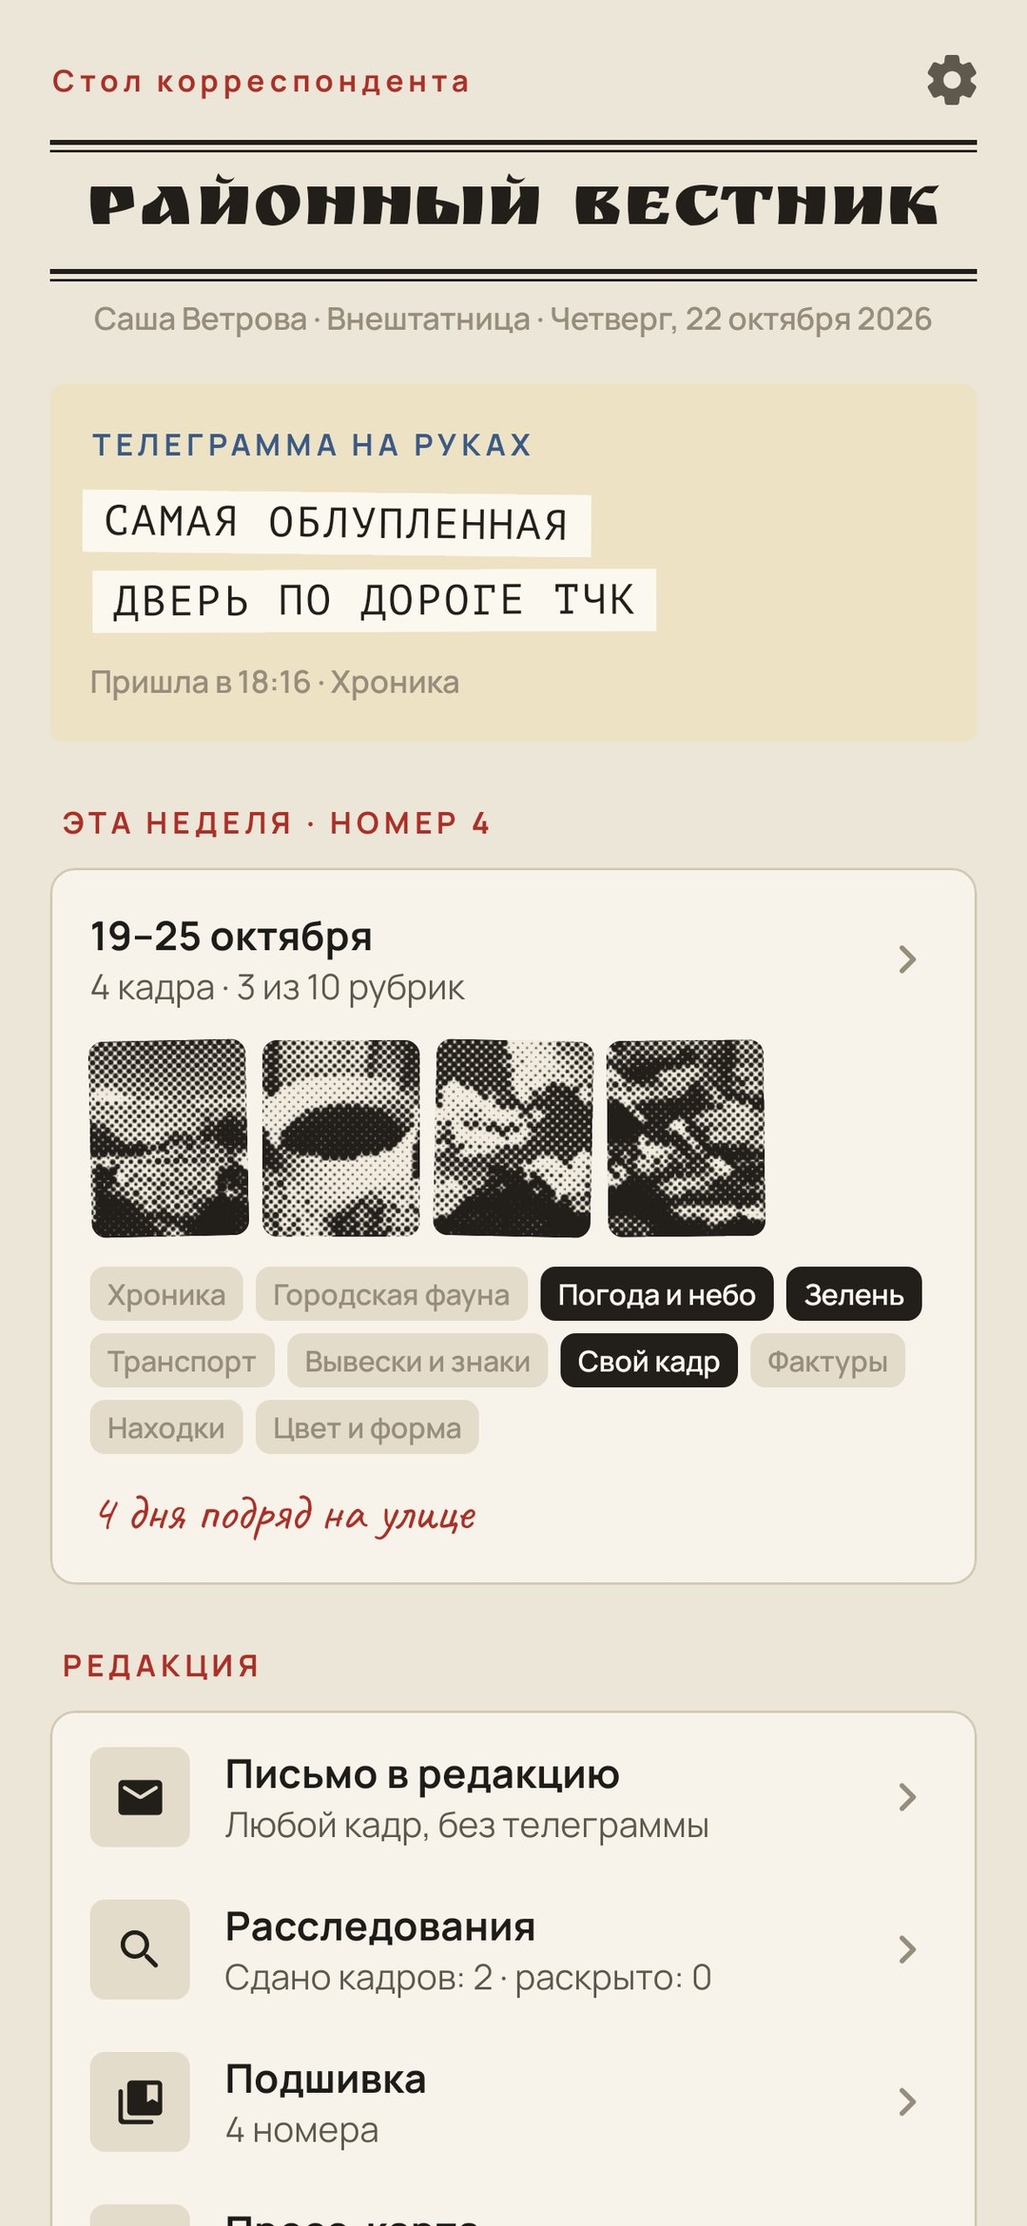
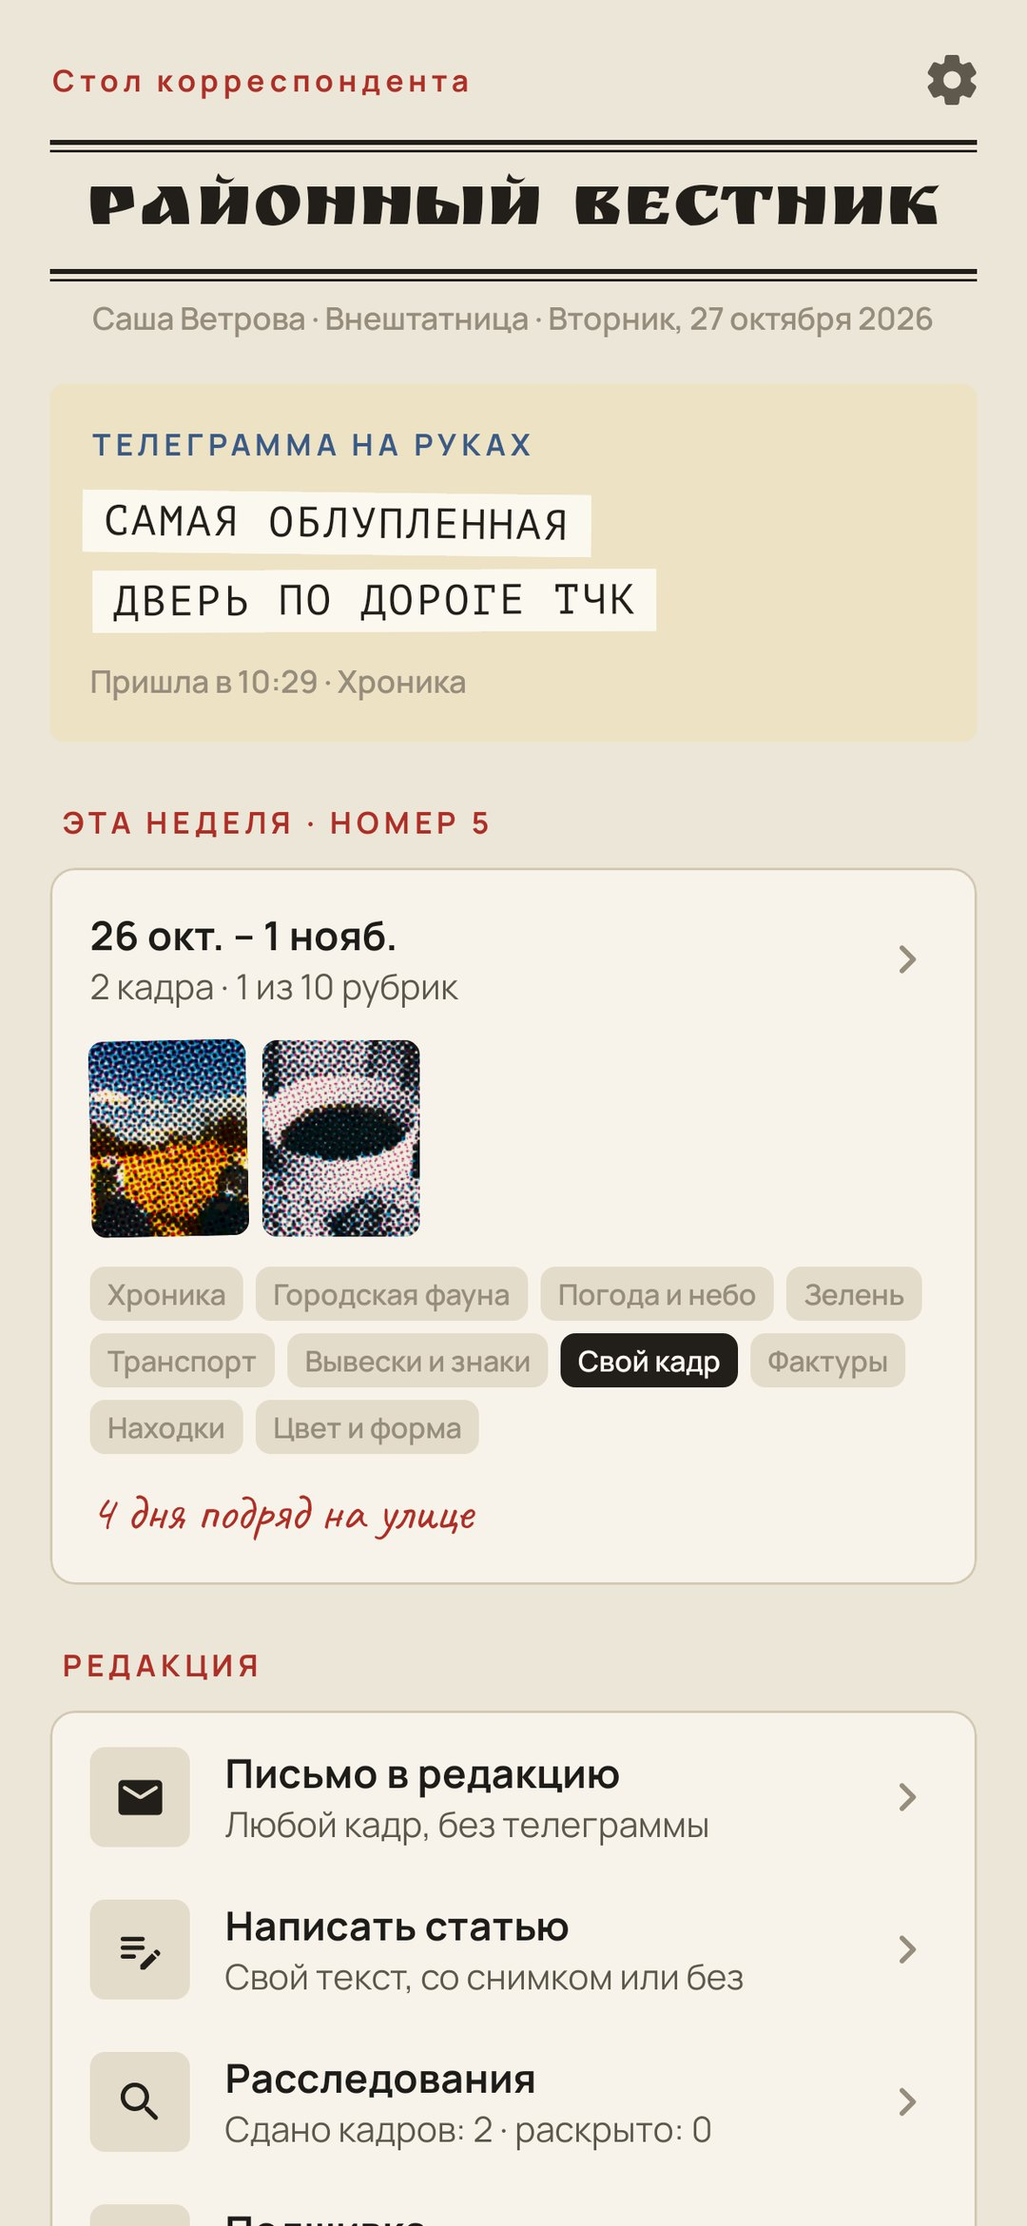
README: colour screenshots, new features; «с изюминкой», not «с поворотом»
- «С поворотом» was a calque of "with a twist"; in Russian it's «с изюминкой»,
  and the daily's tricky ones come «с подвохом». Same in the app's texts.
- Screenshots are rendered with the colour press.
- How it works: colour print and no-dots frames, printing, articles.

diff --git a/app/src/test/java/app/stringer/RenderArtScreens.kt b/app/src/test/java/app/stringer/RenderArtScreens.kt
@@ -5,15 +5,18 @@ import androidx.compose.foundation.background
 import androidx.compose.foundation.layout.Box
 import androidx.compose.foundation.layout.fillMaxSize
 import androidx.compose.runtime.Composable
+import androidx.compose.runtime.CompositionLocalProvider
 import androidx.compose.ui.Modifier
 import androidx.compose.ui.test.junit4.createAndroidComposeRule
 import androidx.navigation.compose.rememberNavController
 import androidx.test.core.app.ApplicationProvider
 import app.stringer.data.DemoSeed
+import app.stringer.data.Press
 import app.stringer.domain.Case
 import app.stringer.ui.Go
 import app.stringer.ui.Home
 import app.stringer.ui.archive.ArchiveScreen
+import app.stringer.ui.art.LocalPress
 import app.stringer.ui.card.CardScreen
 import app.stringer.ui.cases.CaseScreen
 import app.stringer.ui.cases.CasesScreen
@@ -54,7 +57,10 @@ abstract class ScreensBase {
         rule.mainClock.autoAdvance = false
         rule.setContent {
             val nav = rememberNavController()
-            StringerTheme { Box(Modifier.fillMaxSize().background(S.c.bg)) { content(h, Go(nav)) } }
+            // The README shows the paper in colour.
+            CompositionLocalProvider(LocalPress provides Press.COLOUR) {
+                StringerTheme { Box(Modifier.fillMaxSize().background(S.c.bg)) { content(h, Go(nav)) } }
+            }
         }
         // Halftones are screened off the main thread: let them land.
         repeat(6) {

diff --git a/README.ru.md b/README.ru.md
@@ -6,7 +6,7 @@
 
 ### Каждый выход на улицу — задание районной газеты.
 
-*Перед прогулкой редактор маленькой районной газеты присылает телеграмму: одна обычная вещь, которую надо снять. Дверь, голубь, лужа, тень — но с поворотом: с высоты колена, самая облупленная по пути, с небом в отражении. Снимаешь камерой телефона, подписываешь одной строкой, и кадр печатается газетным растром. По воскресеньям кадры недели выходят номером. Бесплатно, без рекламы, без аккаунта, без интернета.*
+*Перед прогулкой редактор маленькой районной газеты присылает телеграмму: одна обычная вещь, которую надо снять. Дверь, голубь, лужа, тень — но с изюминкой: с высоты колена, самая облупленная по пути, с небом в отражении. Снимаешь камерой телефона, подписываешь одной строкой, и кадр печатается газетным растром. По воскресеньям кадры недели выходят номером. Бесплатно, без рекламы, без аккаунта, без интернета.*
 
 [![Android CI](https://github.com/bigdevwhale/stringer/actions/workflows/android.yml/badge.svg)](https://github.com/bigdevwhale/stringer/actions/workflows/android.yml)
 [![Release](https://img.shields.io/github/v/release/bigdevwhale/stringer?color=AE2F27&label=скачать&logo=android)](https://github.com/bigdevwhale/stringer/releases/latest)
@@ -24,7 +24,7 @@
 
 ## Идея
 
-Мы каждый день ходим по одним и тем же улицам и перестаём их видеть. Внештатный корреспондент маленькой газеты так не может: с каждой прогулки нужно принести кадр. Внештатник даёт тебе эту работу. Ничего редкого и ничего, за чем надо ехать. Всё, что просит редактор, есть на любой улице, а поворот заставляет присмотреться.
+Мы каждый день ходим по одним и тем же улицам и перестаём их видеть. Внештатный корреспондент маленькой газеты так не может: с каждой прогулки нужно принести кадр. Внештатник даёт тебе эту работу. Ничего редкого и ничего, за чем надо ехать. Всё, что просит редактор, есть на любой улице, а изюминка в задании заставляет присмотреться.
 
 ## Как это работает
 
@@ -32,13 +32,14 @@
 2. **1271 задание** в десяти рубриках: Хроника, Городская фауна, Погода и небо, Зелень, Транспорт, Вывески и знаки, Свой кадр, Фактуры, Находки, Цвет и форма. Это три года ежедневных прогулок без единого повтора; тест проходит все три года и проверяет. Что придёт, решают сезон, погода, о которой ты сообщаешь, и вечерний свет: осенью «лист на машине», в дождь «капли на окне», после заката «окно, где уже зажгли свет».
 3. **«Или».** В каждой телеграмме есть запасной вариант. Нет кота в окне — любой кот. Прогулка никогда не проваливается.
 4. **Одна замена.** Не хочется? Попроси другое задание: редактор поворчит красным карандашом и пришлёт ещё одно.
-5. **Гранка.** Открывается камера телефона. Кадр возвращается газетным растром — чёрные точки на сетке под 45°; «Как снято» показывает оригинал. Напиши подпись в одну строку, как в газете (без подписи в номер не берут), отметь, нашлось ли именно это или запасное «или», и отправляй в номер.
+5. **Гранка.** Открывается камера телефона. Кадр возвращается газетным растром: чёрные точки на сетке под 45° или, если выбрать цветную печать, точки в четыре краски; «Как снято» показывает оригинал. Можно и вовсе без растра — для всех снимков или для одного. Напиши подпись в одну строку, как в газете (без подписи в номер не берут), отметь, нашлось ли именно это или запасное «или», и отправляй в номер.
 6. **Пометка редактора.** На каждом сданном кадре штамп и строчка на полях: «Годится. В номер.», «„Или“ засчитано.», «Ночная смена? В набор.»
-7. **Воскресный номер.** Кадры недели вёрстаются газетной полосой под шапкой твоей газеты: снимок на первой полосе с подписью вместо заголовка, рубрики по два кадра в ряд, погода недели в рамке, объявления там, где рубрика пока пуста. Номер можно отправить картинкой.
-8. **Молния.** В сумерках, когда на руках ничего нет, приходит красная «молния»: редакции нужен вечерний свет, пока он не ушёл.
-9. **Расследования** на недели: все буквы алфавита на вывесках района, цифры 0–9, двенадцать дверей, десять котов. Ячейки заполняются в любом порядке — когда попадётся.
-10. **Пресс-карта и подшивка.** Звания от стажёра до главного по району, штамп за каждый номер, кадры по рубрикам и все номера, переплетённые по годам.
-11. **Две газеты.** Районная многотиражка присылает простые повороты, столичный ежедневник подмешивает хитрые.
+7. **Воскресный номер.** Кадры недели вёрстаются газетной полосой под шапкой твоей газеты: снимок на первой полосе с подписью вместо заголовка, рубрики по два кадра в ряд, погода недели в рамке, объявления там, где рубрика пока пуста. Номер можно отправить картинкой или распечатать на принтере: страница сама разложится по листам A4, не разрезая снимков.
+8. **Свои статьи.** Кроме кадров можно написать статью: заголовок, текст и снимок, если он есть. Статьи выходят в номере отдельной рубрикой.
+9. **Молния.** В сумерках, когда на руках ничего нет, приходит красная «молния»: редакции нужен вечерний свет, пока он не ушёл.
+10. **Расследования** на недели: все буквы алфавита на вывесках района, цифры 0–9, двенадцать дверей, десять котов. Ячейки заполняются в любом порядке — когда попадётся.
+11. **Пресс-карта и подшивка.** Звания от стажёра до главного по району, штамп за каждый номер, кадры по рубрикам и все номера, переплетённые по годам.
+12. **Две газеты.** Районная многотиражка присылает простые задания, столичный ежедневник подмешивает задания с подвохом.
 
 ## Приватность
 

diff --git a/README.md b/README.md
@@ -32,13 +32,14 @@ We walk the same streets every day and stop seeing them. A stringer, the freelan
 2. **1271 assignments** in ten rubrics: Chronicle, City fauna, Weather & sky, Greenery, On the move, Signs & letters, the Correspondent's own, Textures, Finds, Colour & shape. That's three years of daily walks without a single repeat; a unit test walks all three years to make sure. The season, the weather you report and the evening light decide what can come: «a leaf on a car» in autumn, «drops on a window» in the rain, «a lit window» after dusk.
 3. **The «or».** Every telegram carries a fallback. No cat in the window? Any cat. A walk never fails.
 4. **One swap.** Not feeling it? Ask for another; the editor grumbles in red pencil and sends one more.
-5. **The proof.** The phone's own camera opens. The frame comes back screened like newsprint, black dots on a 45° grid; «as shot» shows the original. Write a caption, one line as in a paper (no caption, no print), mark whether it was exactly that or the «or», and send it to press.
+5. **The proof.** The phone's own camera opens. The frame comes back screened like newsprint, black dots on a 45° grid, or four-colour dots if you choose colour print; «as shot» shows the original. A frame can also go in with no screen at all, one by one or all of them. Write a caption, one line as in a paper (no caption, no print), mark whether it was exactly that or the «or», and send it to press.
 6. **The editor's mark.** Every filed frame gets a stamp and a line in the margin: «Set. To press.», «The «or» counts.», «Night shift. Approved.»
-7. **The Sunday issue.** The week's frames are laid out as a newspaper page under your paper's masthead: the front-page photo with its caption as the headline, the rubrics two frames to a row, the week's weather in a box, small ads where a rubric is still empty. Share it as an image.
-8. **Flash.** At dusk, with nothing in hand, a red «flash» comes in: the editor wants the evening light before it goes.
-9. **Investigations** that take weeks: every letter of the alphabet on the district's signs, the digits 0–9, twelve doors, ten cats. Fill the slots in any order, whenever one turns up.
-10. **The press card and the bound volume.** Ranks from trainee to chief of the district, a stamp for every issue, frames by rubric, and every issue so far, bound by year.
-11. **Two papers.** The district weekly sends the plain twists; the big-city daily mixes in the trickier ones.
+7. **The Sunday issue.** The week's frames are laid out as a newspaper page under your paper's masthead: the front-page photo with its caption as the headline, the rubrics two frames to a row, the week's weather in a box, small ads where a rubric is still empty. Share it as an image, or print it: the page lays itself out on A4 sheets without cutting a frame in two.
+8. **Your own articles.** Besides frames, write an article: a headline, the text, and a photo if there is one. Articles run in the issue as a rubric of their own.
+9. **Flash.** At dusk, with nothing in hand, a red «flash» comes in: the editor wants the evening light before it goes.
+10. **Investigations** that take weeks: every letter of the alphabet on the district's signs, the digits 0–9, twelve doors, ten cats. Fill the slots in any order, whenever one turns up.
+11. **The press card and the bound volume.** Ranks from trainee to chief of the district, a stamp for every issue, frames by rubric, and every issue so far, bound by year.
+12. **Two papers.** The district weekly sends the plain twists; the big-city daily mixes in the trickier ones.
 
 ## Privacy
 
